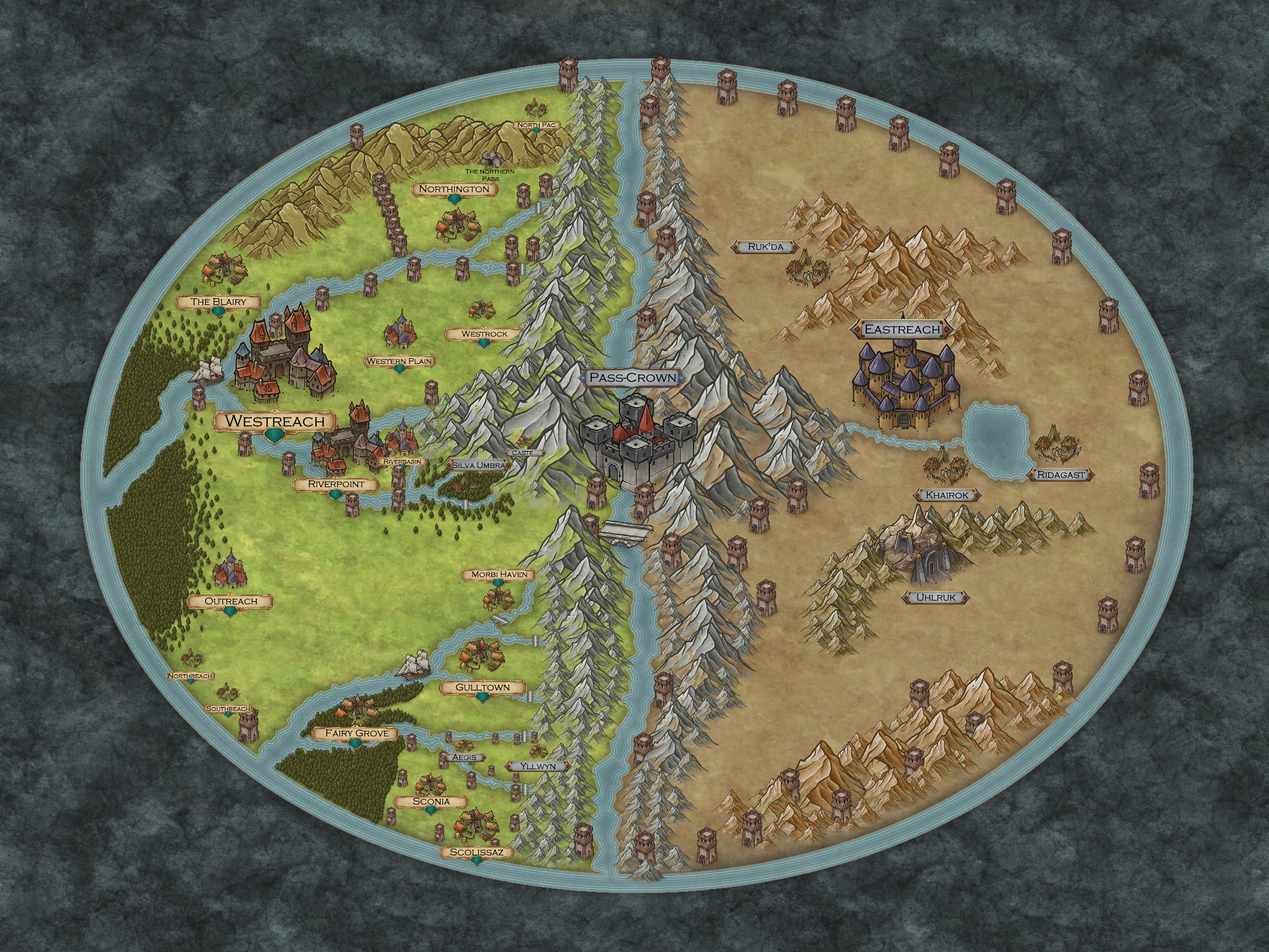
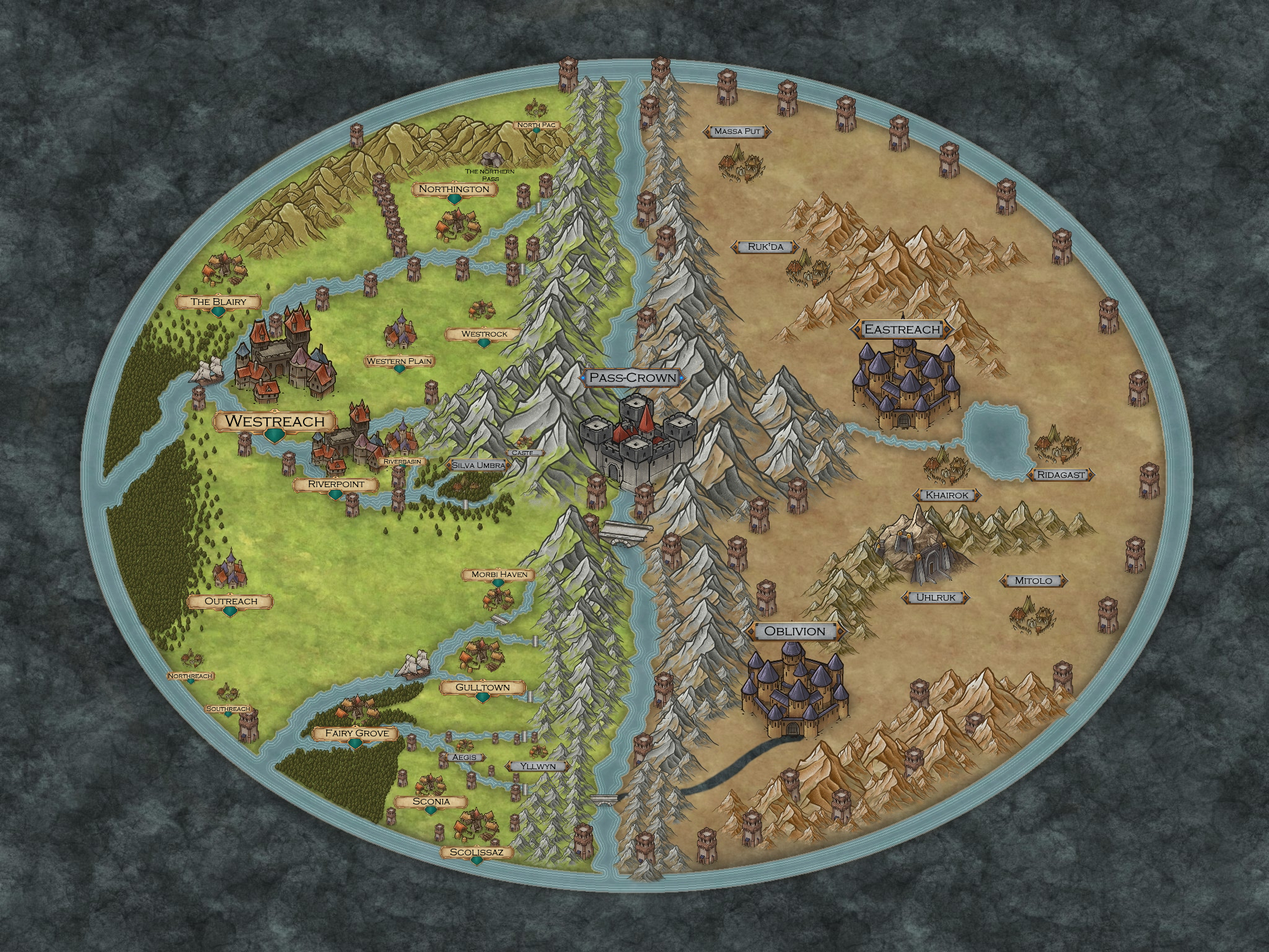
New cities

diff --git a/frontend/src/components/CampaignView.tsx b/frontend/src/components/CampaignView.tsx
@@ -144,10 +144,13 @@ const CITY_LOCATIONS: Array<{ name: string; x: number; y: number; major?: boolea
   { name: 'Fairy Grove',              x: 28.2,  y: 75 },
   { name: 'Pass-Crown',               x: 50,  y: 46,  major: true },
   { name: "Ruk'da",                   x: 64,  y: 28 },
+  { name: "Massa Put",                x: 58,  y: 17 },
   { name: 'Eastreach',                x: 71.5,  y: 40,  major: true },
   { name: 'Ridagast',                 x: 83.25,  y: 46.5 },
   { name: 'Khairok',                  x: 74.5,  y: 49 },
   { name: 'Uhlruk',                   x: 72,  y: 58, major: true },
+  { name: 'Mitolo',                   x: 81.5,  y: 64 },
+  { name: 'Oblivion',                 x: 63,  y: 72, major: true },
 ];
 
 // Extra images for player cities (in addition to the default .jpg)
